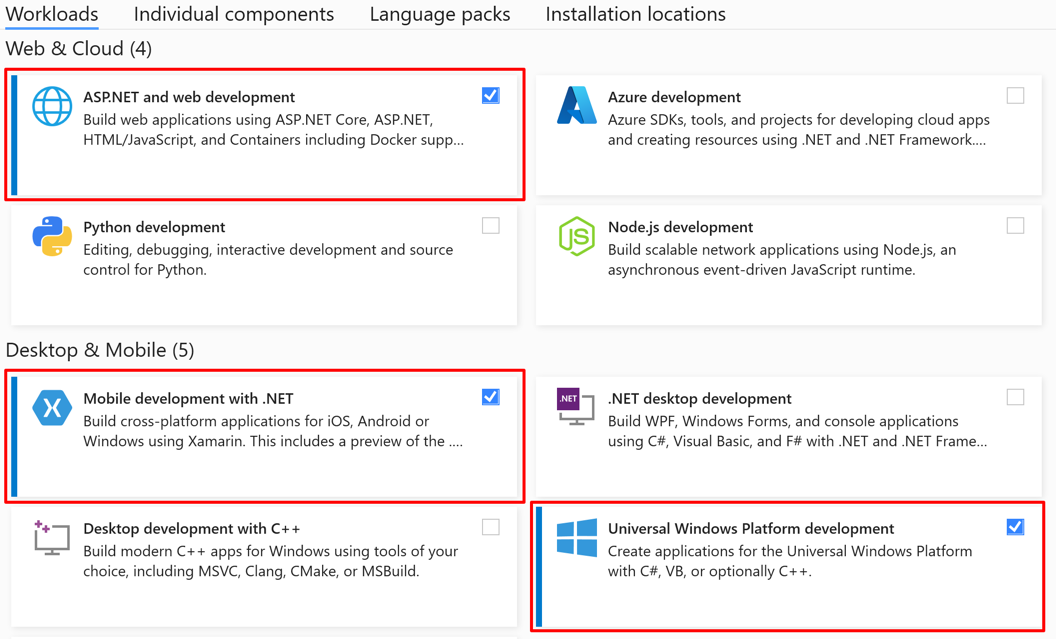
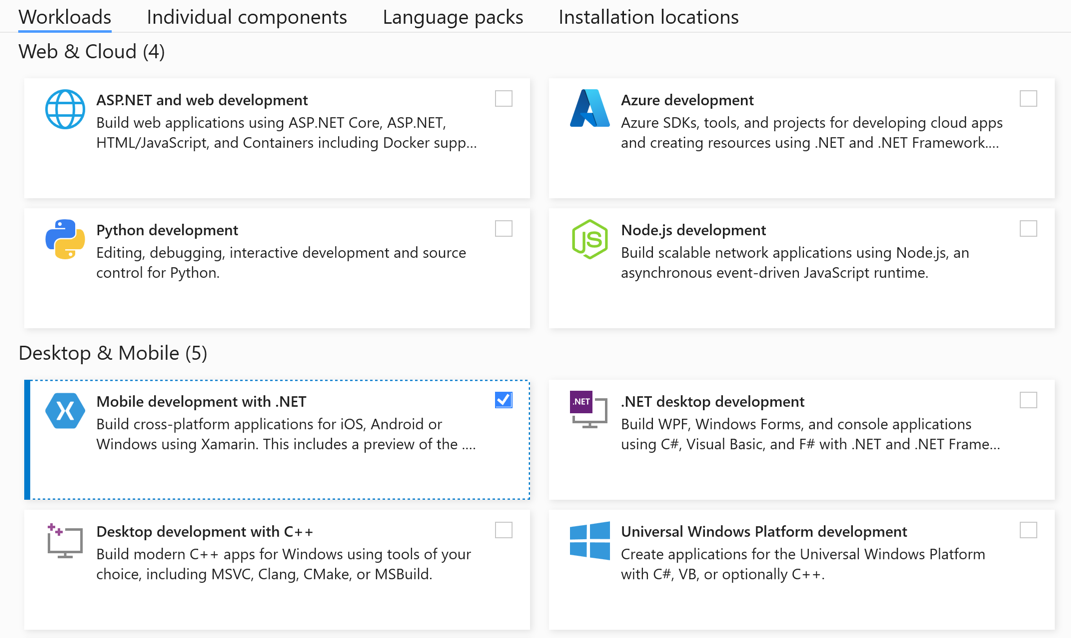
VS 17.1 P1 updates.

diff --git a/docs/get-started/installation.md b/docs/get-started/installation.md
@@ -1,7 +1,7 @@
 ---
 title: ".NET MAUI installation"
 description: "Installation instructions for .NET MAUI."
-ms.date: 10/12/2021
+ms.date: 10/20/2021
 ---
 
 # Installation
@@ -15,23 +15,8 @@ To create .NET Multi-platform App UI (.NET MAUI) apps, you need the latest previ
 To create .NET MAUI apps, you'll need [Visual Studio 2022 Preview 5](https://visualstudio.microsoft.com/vs/preview/vs2022/). Either install Visual Studio, or modify your installation, and install the following **workloads**:
 
 - Mobile development with .NET
-- Universal Windows Platform development
-- ASP.NET and web development (required for .NET MAUI Blazor apps)
 
   :::image type="content" source="installation-images/vs-workloads.png" alt-text="Visual Studio workloads for .NET MAUI.":::
-
-In the **Installation details** > **Mobile development with .NET** section of the installation window, check the **.NET MAUI (Preview)** optional workload:
-
-:::image type="content" source="installation-images/vs-optional.png" alt-text="Visual Studio installer enabling the .NET MAUI optional workload.":::
-
-## Windows (WinUI 3)
-
-To create apps that target Windows UI Library (WinUI) 3, install the following Visual Studio extension:
-
-- [Single-project MSIX Packaging Tools](https://marketplace.visualstudio.com/items?itemName=ProjectReunion.MicrosoftSingleProjectMSIXPackagingToolsDev17)
-
-> [!IMPORTANT]
-> You **must** uncomment the Windows `TargetFrameworks` from your _.csproj_ file in order to enable windows development.
 
 ## Next steps
 
